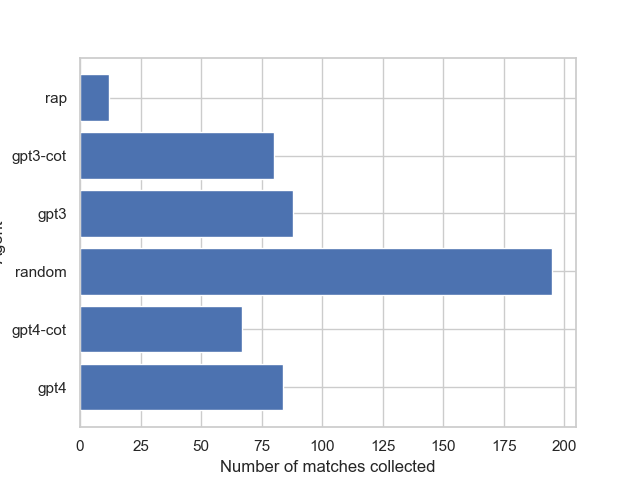
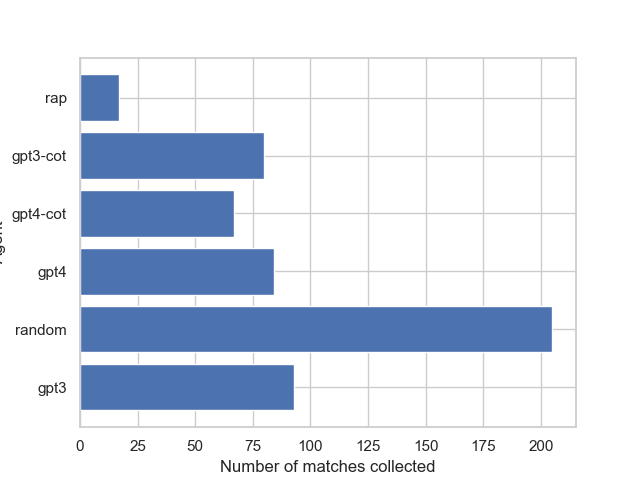
better formatting for aggregated visuals

diff --git a/make_visuals.py b/make_visuals.py
@@ -8,7 +8,7 @@ import numpy as np
 import functools
 import seaborn as sns
 
-sns.set(style='white')
+sns.set(style='whitegrid')
 
 def make_figures(game, matches):
 
@@ -21,11 +21,11 @@ def make_figures(game, matches):
     n_players = len(players)
     #players.sort()
 
-    fig, axs = plt.subplots(2, 2, figsize=(9.5, 7.8), constrained_layout=True)
-    pos_nmatches = 0, 0
-    pos_score = 0, 1
-    pos_prob = 1, 0
-    pos_rating = 1, 1
+    fig, axs = plt.subplots(2, 2, figsize=(9.5, 7.8), constrained_layout=True, dpi=300)
+    ax_nmatches = axs[0, 0]
+    ax_score = axs[0, 1]
+    ax_prob = axs[1, 0]
+    ax_rating = axs[1, 1]
 
     ################################################################################
 
@@ -44,13 +44,13 @@ def make_figures(game, matches):
 
             matrix[i][j] = n_matches[player1, player2]
 
-    sns.heatmap(matrix, ax=axs[pos_nmatches], annot=True, xticklabels=players, yticklabels=players)
-    axs[pos_nmatches].tick_params(axis='x', rotation=30)
-    axs[pos_nmatches].tick_params(axis='y', rotation=0)
-    axs[pos_nmatches].invert_yaxis()
+    sns.heatmap(matrix, ax=ax_nmatches, annot=True, xticklabels=players, yticklabels=players)
+    ax_nmatches.tick_params(axis='x', rotation=30)
+    ax_nmatches.tick_params(axis='y', rotation=0)
+    ax_nmatches.invert_yaxis()
     #plt.xticks(rotation=30)
 
-    axs[pos_nmatches].set_title("Number of matches")
+    ax_nmatches.set_title("Number of matches")
 
     ################################################################################
 
@@ -73,14 +73,14 @@ def make_figures(game, matches):
 
             matrix[i, j] = wins[player1, player2]
 
-    sns.heatmap(matrix, ax=axs[pos_score], annot=True, xticklabels=players, yticklabels=players)
+    sns.heatmap(matrix, ax=ax_score, annot=True, xticklabels=players, yticklabels=players)
 
-    axs[pos_score].set_title("Average score")
-    axs[pos_score].set_ylabel("Average points this agent scored...")
-    axs[pos_score].set_xlabel("... against this agent")
-    axs[pos_score].tick_params(axis='x', rotation=30)
-    axs[pos_score].tick_params(axis='y', rotation=0)
-    axs[pos_score].invert_yaxis()
+    ax_score.set_title("Average score")
+    ax_score.set_ylabel("Average points this agent scored...")
+    ax_score.set_xlabel("... against this agent")
+    ax_score.tick_params(axis='x', rotation=30)
+    ax_score.tick_params(axis='y', rotation=0)
+    ax_score.invert_yaxis()
 
     ################################################################################
 
@@ -145,11 +145,12 @@ def make_figures(game, matches):
     ci90s = np.percentile(bootstrapped_params, [5, 95], axis=1)
     ci90s = np.absolute(ratings - ci90s)
 
-    axs[pos_rating].errorbar(players, ratings, yerr=ci90s, fmt="o")
-    axs[pos_rating].set_title("Rating")
-    axs[pos_rating].set_xlabel("Agent")
-    axs[pos_rating].set_ylabel("Exponential Score")
-    axs[pos_rating].tick_params(axis='x', rotation=30)
+    sns.barplot(x=players, y=ratings, ax=ax_rating)
+    ax_rating.errorbar(players, ratings, yerr=ci90s, fmt="none", color="k", capsize=5)
+    ax_rating.set_title("Rating")
+    ax_rating.set_xlabel("Agent")
+    ax_rating.set_ylabel("Exponential Score")
+    ax_rating.tick_params(axis='x', rotation=30)
 
     ################################################################################
 
@@ -158,13 +159,13 @@ def make_figures(game, matches):
         for j in range(n_players):
             matrix[i, j] = choix.probabilities([i, j], ratings)[0]
 
-    sns.heatmap(matrix, ax=axs[pos_prob], annot=True, xticklabels=players, yticklabels=players, fmt=".2f")
-    axs[pos_prob].set_title("Win probabilities")
-    axs[pos_prob].set_ylabel("Probability this agent...")
-    axs[pos_prob].set_xlabel("... beats this agent")
-    axs[pos_prob].tick_params(axis='x', rotation=30)
-    axs[pos_prob].tick_params(axis='y', rotation=0)
-    axs[pos_prob].invert_yaxis()
+    sns.heatmap(matrix, ax=ax_prob, annot=True, xticklabels=players, yticklabels=players, fmt=".2f")
+    ax_prob.set_title("Win probabilities")
+    ax_prob.set_ylabel("Probability this agent...")
+    ax_prob.set_xlabel("... beats this agent")
+    ax_prob.tick_params(axis='x', rotation=30)
+    ax_prob.tick_params(axis='y', rotation=0)
+    ax_prob.invert_yaxis()
 
 
     ################################################################################

diff --git a/make_aggregated_visuals.py b/make_aggregated_visuals.py
@@ -1,6 +1,8 @@
 from api.util import load_json
 from collections import defaultdict
 import random
+import seaborn as sns
+
 
 import functools
 
@@ -8,16 +10,15 @@ import choix
 import matplotlib.pyplot as plt
 import numpy as np
 
+sns.set(style='whitegrid')
+
 all_matches = [
     m
     for m in load_json("matches.json")
-    if "gpt3-bap" not in m and "gpt4-bap" not in m
-    and m["game"] != "atari_boxing"
 ]
 
 players = ["random", "gpt3", "gpt3-cot", "gpt4", "gpt4-cot", "rap"]
 n_players = len(players)
-players.sort()
 
 
 def lsr_pairwise(n_items, data, alpha=0.0, initial_params=None):
@@ -77,37 +78,31 @@ ci90s = np.percentile(bootstrapped_params, [5, 95], axis=1)
 ci90s = np.absolute(ratings - ci90s)
 
 fig, ax = plt.subplots()
-players = ["random", "gpt3", "gpt3-cot", "gpt4", "gpt4-cot", "rap"]
-n_players = len(players)
-ax.errorbar(players, ratings, yerr=ci90s, fmt="o")
+sns.barplot(x=players, y=ratings, ax=ax)
+ax.errorbar(players, ratings, yerr=ci90s, fmt="none", color="k", capsize=5)
 ax.set_title("Rating")
+ax.set_xlabel("Agent")
+ax.set_ylabel("Exponential Score")
+ax.tick_params(axis='x', rotation=30)
 
 plt.savefig("figures/overall_rating.png")
 
 ################################################################################
 
-fig, ax = plt.subplots()
+fig, ax = plt.subplots(constrained_layout=True, dpi=300)
 
 matrix = np.zeros((n_players, n_players))
 for i in range(n_players):
     for j in range(n_players):
         matrix[i, j] = choix.probabilities([i, j], ratings)[0]
 
-im = ax.imshow(matrix)
-
-ax.set_xticks(np.arange(n_players), labels=players)
-ax.set_yticks(np.arange(n_players), labels=players)
-plt.setp(ax.get_xticklabels(), rotation=45, ha="right", rotation_mode="anchor")
-
-for i in range(n_players):
-    for j in range(n_players):
-        text = ax.text(
-            j, i, matrix[i, j].round(2), ha="center", va="center", color="w"
-        )
-
+sns.heatmap(matrix, ax=ax, annot=True, xticklabels=players, yticklabels=players, fmt=".2f")
 ax.set_title("Win probabilities")
-ax.set_ylabel("Probability that this agent...")
+ax.set_ylabel("Probability this agent...")
 ax.set_xlabel("... beats this agent")
+ax.tick_params(axis='x', rotation=30)
+ax.tick_params(axis='y', rotation=0)
+ax.invert_yaxis()
 
 plt.savefig("figures/overall_probabilities.png")
 
@@ -165,8 +160,8 @@ for match in all_matches:
 for (agent1, agent2), score in wins.items():
     wins[agent1, agent2] = score / n_matches[agent1, agent2]
 
-matrix = np.empty((len(players), len(players)))
-matrix.fill(np.nan)
+matrix = np.zeros((len(players), len(players)))
+#matrix.fill(np.nan)
 for i, player1 in enumerate(players):
     for j, player2 in enumerate(players):
         if player1 == player2:
@@ -174,20 +169,13 @@ for i, player1 in enumerate(players):
 
         matrix[i, j] = wins[player1, player2]
 
-im = ax.imshow(matrix)
-
-ax.set_xticks(np.arange(n_players), labels=players)
-ax.set_yticks(np.arange(n_players), labels=players)
-plt.setp(ax.get_xticklabels(), rotation=45, ha="right", rotation_mode="anchor")
-
-for i in range(n_players):
-    for j in range(n_players):
-        text = ax.text(
-            j, i, (matrix[i, j] * 100).round(1), ha="center", va="center", color="w"
-        )
+sns.heatmap(matrix, ax=ax, annot=True, xticklabels=players, yticklabels=players)
 
 ax.set_title("Average score")
-ax.set_ylabel("How many points this agent earned...")
-ax.set_xlabel("... playing against this agent")
+ax.set_ylabel("Average points this agent scored...")
+ax.set_xlabel("... against this agent")
+ax.tick_params(axis='x', rotation=30)
+ax.tick_params(axis='y', rotation=0)
+ax.invert_yaxis()
 
 plt.savefig("figures/average_score.png")
